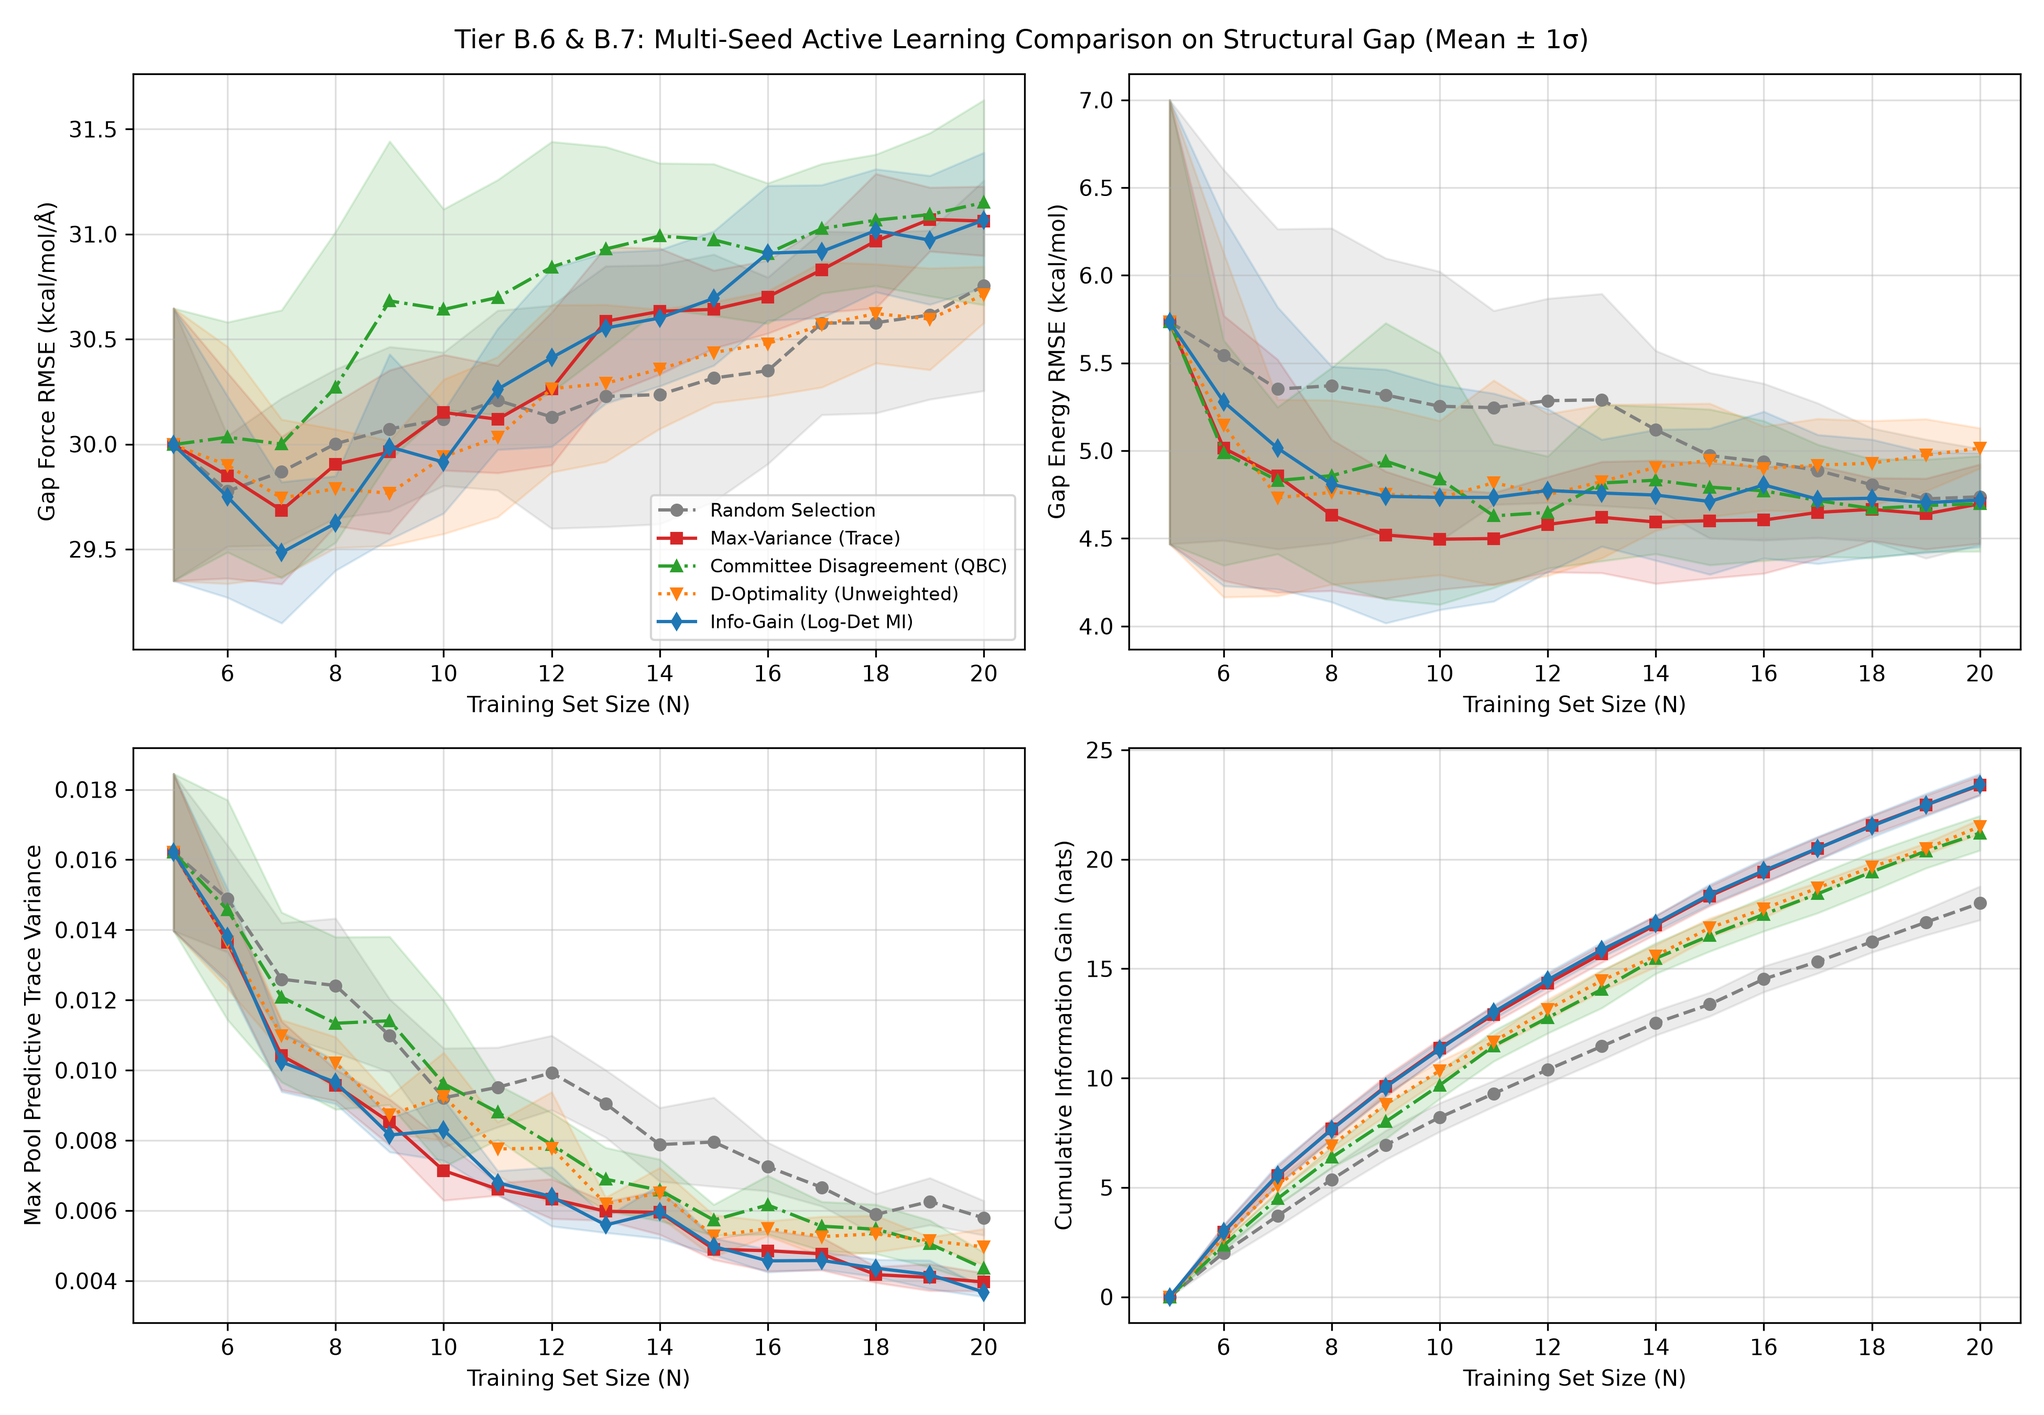
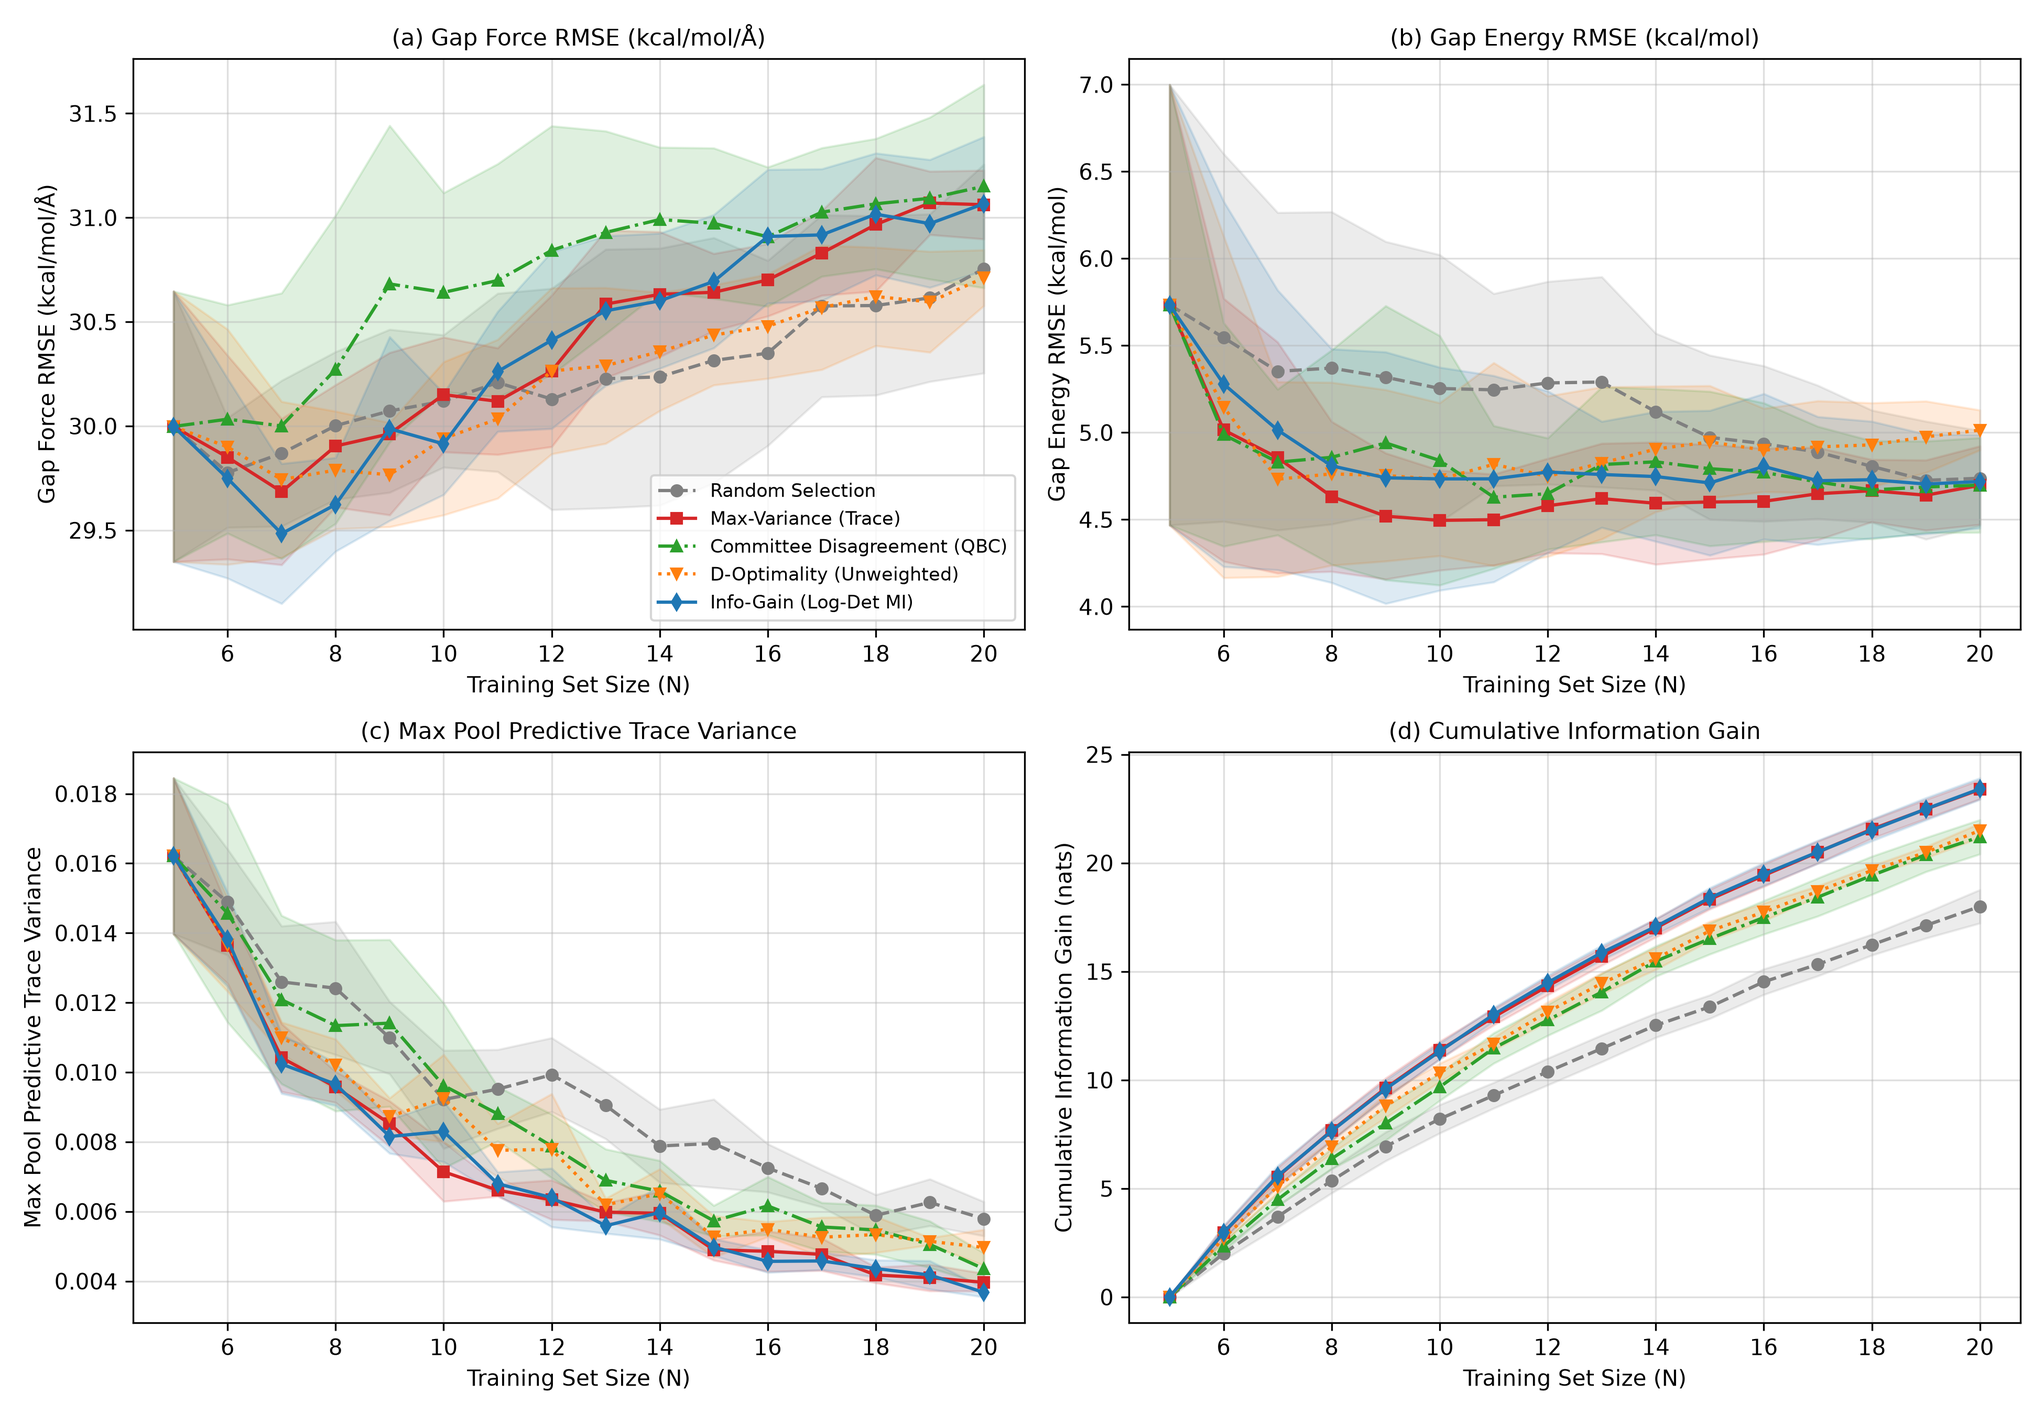
Enhance figure titles and add new script for re-rendering manuscript figures

diff --git a/experiments/scripts/replot_clean_figures.py b/experiments/scripts/replot_clean_figures.py
@@ -1,0 +1,201 @@
+"""Re-render manuscript figures 4–7 from saved benchmark results."""
+
+import json
+from pathlib import Path
+
+import matplotlib.pyplot as plt
+import numpy as np
+
+
+ROOT = Path(__file__).resolve().parents[2]
+RESULTS = ROOT / "experiments" / "results"
+FIGURES = ROOT / "figures"
+FIGURES.mkdir(exist_ok=True)
+
+
+def load_result(name):
+    with (RESULTS / name).open(encoding="utf-8") as result_file:
+        return json.load(result_file)
+
+
+def plot_b6():
+    results = load_result("tier_b6_b7_multiseed.json")
+    n_init, n_steps = 5, 16
+    steps = np.arange(n_init, n_init + n_steps)
+    styles = {
+        "random": ("gray", "o", "--", "Random Selection"),
+        "max_variance": ("C3", "s", "-", "Max-Variance (Trace)"),
+        "qbc": ("C2", "^", "-.", "Committee Disagreement (QBC)"),
+        "d_optimality": ("C1", "v", ":", "D-Optimality (Unweighted)"),
+        "info_gain": ("C0", "d", "-", "Info-Gain (Log-Det MI)"),
+    }
+    metrics = [
+        ("force_rmse", "Gap Force RMSE (kcal/mol/Å)", "Gap Force RMSE (kcal/mol/Å)"),
+        ("energy_rmse", "Gap Energy RMSE (kcal/mol)", "Gap Energy RMSE (kcal/mol)"),
+        ("max_pred_var", "Max Pool Predictive Trace Variance", "Max Pool Predictive Trace Variance"),
+        ("cum_info_gain", "Cumulative Information Gain", "Cumulative Information Gain (nats)"),
+    ]
+    fig, axes = plt.subplots(2, 2, figsize=(13, 9))
+    for (key, title, ylabel), ax in zip(metrics, axes.flat):
+        for strategy, (color, marker, linestyle, label) in styles.items():
+            runs = results.get(strategy, [])
+            if not runs:
+                continue
+            values = np.asarray([run[key] for run in runs])
+            mean, std = values.mean(axis=0), values.std(axis=0)
+            ax.plot(steps, mean, marker=marker, linestyle=linestyle, color=color,
+                    label=label, markersize=5)
+            ax.fill_between(steps, mean - std, mean + std, color=color, alpha=0.15)
+        ax.set_title(f"{['(a)', '(b)', '(c)', '(d)'][list(axes.flat).index(ax)]} {title}", fontsize=10.5)
+        ax.set_xlabel("Training Set Size (N)")
+        ax.set_ylabel(ylabel)
+        ax.grid(True, alpha=0.4)
+        if key == "force_rmse":
+            ax.legend(fontsize=8.5)
+    fig.tight_layout()
+    fig.savefig(FIGURES / "tier_b6_b7_learning_curves.png", dpi=300)
+    plt.close(fig)
+
+
+def plot_b8():
+    results = load_result("tier_b8_batch_results.json")
+    batch_sizes = [1, 5, 10, 25]
+    colors = {1: "C0", 5: "C2", 10: "C1", 25: "C3"}
+    markers = {1: "d", 5: "s", 10: "^", 25: "o"}
+    fig, axes = plt.subplots(1, 3, figsize=(15, 4.5))
+    for batch in batch_sizes:
+        runs = results[str(batch)]
+        n_vals = runs[0]["N_history"]
+        values = np.asarray([run["force_rmse"] for run in runs])
+        mean, std = values.mean(axis=0), values.std(axis=0)
+        axes[0].plot(n_vals, mean, marker=markers[batch], color=colors[batch],
+                     label=f"Batch B = {batch}")
+        axes[0].fill_between(n_vals, mean - std, mean + std, color=colors[batch], alpha=0.15)
+    axes[0].set(xlabel="Training Set Size (N)", ylabel="Gap Force RMSE (kcal/mol/Å)",
+                title="(a) Accuracy vs. Query Budget")
+    axes[0].grid(True, alpha=0.4)
+    axes[0].legend()
+    mean_times = [np.mean([r["wall_time_sec"] for r in results[str(b)]]) for b in batch_sizes]
+    std_times = [np.std([r["wall_time_sec"] for r in results[str(b)]]) for b in batch_sizes]
+    axes[1].bar([f"B={b}" for b in batch_sizes], mean_times, yerr=std_times, capsize=4,
+                color=[colors[b] for b in batch_sizes], alpha=0.85)
+    axes[1].set(ylabel="Total Wall-Clock Time (s)", title="(b) Retraining & Acquisition Runtime")
+    axes[1].grid(True, axis="y", alpha=0.4)
+    multi_batch = [b for b in batch_sizes if b > 1]
+    mean_div = [np.mean([r["mean_batch_diversity"] for r in results[str(b)]]) for b in multi_batch]
+    std_div = [np.std([r["mean_batch_diversity"] for r in results[str(b)]]) for b in multi_batch]
+    axes[2].bar([f"B={b}" for b in multi_batch], mean_div, yerr=std_div, capsize=4,
+                color=[colors[b] for b in multi_batch], alpha=0.85)
+    axes[2].set(ylabel="Mean Pairwise SOAP Distance", title="(c) Intra-Batch Structural Diversity")
+    axes[2].grid(True, axis="y", alpha=0.4)
+    fig.tight_layout()
+    fig.savefig(FIGURES / "tier_b8_batch_analysis.png", dpi=300)
+    plt.close(fig)
+
+
+def plot_b9():
+    results = load_result("tier_b9_d15_validation.json")
+    predicted = results["predicted_ig"]
+    realized = results["realized_pool_mi_drop"]
+    gamma = results["cum_gamma_T"]
+    steps = np.arange(1, len(predicted) + 1)
+    fig, axes = plt.subplots(1, 3, figsize=(15, 4.5))
+    axes[0].scatter(predicted, realized, c=steps, cmap="viridis", edgecolor="k", s=55)
+    slope, intercept = np.polyfit(predicted, realized, 1)
+    x_line = np.linspace(min(predicted), max(predicted), 50)
+    axes[0].plot(x_line, slope*x_line + intercept, "r--", linewidth=1.5,
+                 label=f"Linear Fit (r = {results['pearson_r_mi']:.2f})")
+    axes[0].set(xlabel=r"Predicted Acquisition Score $I(\mathbf{y}_*; f \mid \mathcal{D}_t)$ [nats]",
+                ylabel="Realized Global Pool Entropy Reduction [nats]",
+                title="(a) Acquisition Score Validation")
+    axes[0].grid(True, alpha=0.4)
+    axes[0].legend()
+    axes[1].plot(steps, gamma, "d-", color="C0", label=r"Empirical $\gamma_T$ (Log-Det MI)")
+    envelope = gamma[-1] / np.log(1 + len(steps)) * np.log(1 + steps)
+    axes[1].plot(steps, envelope, "k--", label=r"Sublinear Envelope $\mathcal{O}(d_{\mathrm{eff}} \log T)$")
+    axes[1].set(xlabel="Active Learning Step (T)",
+                ylabel=r"Cumulative Information Gain $\gamma_T$ [nats]",
+                title="(b) Sublinear Information Gain Growth")
+    axes[1].grid(True, alpha=0.4)
+    axes[1].legend()
+    axes[2].plot(steps, results["max_var_T"], "s-", color="C3", label="Max Pool Trace Variance")
+    axes[2].plot(steps, results["p95_var_T"], "^--", color="C1", label="95th Percentile Variance")
+    axes[2].plot(steps, results["mean_var_T"], "o-", color="C2", label="Mean Pool Variance")
+    theory = results["mean_var_T"][0] * (np.asarray(gamma) / steps) / gamma[0]
+    axes[2].plot(steps, theory, "k:", linewidth=1.8,
+                 label=r"Theoretical Envelope $\mathcal{O}(\gamma_T / T)$")
+    axes[2].set(xlabel="Active Learning Step (T)", ylabel="Posterior Predictive Trace Variance",
+                title="(c) Posterior Variance Decay")
+    axes[2].grid(True, alpha=0.4)
+    axes[2].legend(fontsize=8)
+    fig.tight_layout()
+    fig.savefig(FIGURES / "tier_b9_d15_d16_validation.png", dpi=300)
+    plt.close(fig)
+
+
+def plot_c14():
+    results = load_result("tier_c14_robustness.json")
+    steps = np.arange(5, 21)
+    panels = [
+        ("ethanol_random", "(a) Ethanol: Random Split (Interpolation)"),
+        ("ethanol_contiguous", "(b) Ethanol: Contiguous Trajectory Split"),
+        ("ethanol_structural", "(c) Ethanol: Structural C–O Gap Split"),
+        ("malonaldehyde_structural", "(d) Malonaldehyde: Structural O–H Gap Split"),
+    ]
+    styles = {
+        "random": ("gray", "o", "--", "Random Sampling"),
+        "max_variance": ("C3", "s", "-", "Max-Variance (Trace)"),
+        "info_gain": ("C0", "d", "-", "Info-Gain (Log-Det MI)"),
+    }
+    fig, axes = plt.subplots(2, 2, figsize=(13, 9))
+    for (key, title), ax in zip(panels, axes.flat):
+        for strategy, (color, marker, linestyle, label) in styles.items():
+            values = np.asarray([run["force_rmse"] for run in results[key][strategy]])
+            mean, std = values.mean(axis=0), values.std(axis=0)
+            ax.plot(steps, mean, marker=marker, linestyle=linestyle, color=color,
+                    label=label, markersize=4.5)
+            ax.fill_between(steps, mean - std, mean + std, color=color, alpha=0.15)
+        ax.set_title(title)
+        ax.set_xlabel("Training Set Size (N)")
+        ax.set_ylabel("Force RMSE (kcal/mol/Å)")
+        ax.grid(True, alpha=0.4)
+        if key == "ethanol_random":
+            ax.legend(fontsize=8.5)
+    fig.tight_layout()
+    fig.savefig(FIGURES / "tier_c14_multi_split_and_molecule.png", dpi=300)
+    plt.close(fig)
+
+
+def plot_c13():
+    results = load_result("tier_c12_c13_results.json")["tier_c13_scaling"]
+    n_vals = [record["N"] for record in results]
+    t_soap = [record["t_soap_sec"] for record in results]
+    t_build = [record["t_build_K_sec"] for record in results]
+    t_cholesky = [record["t_cholesky_sec"] for record in results]
+    t_acq60 = [record["t_acq1_sec"] * 60 for record in results]
+    memory = [record["peak_memory_mb"] for record in results]
+    fig, axes = plt.subplots(1, 2, figsize=(12, 4.5))
+    axes[0].plot(n_vals, t_soap, "o-", label="SOAP + Jacobian Extraction")
+    axes[0].plot(n_vals, t_build, "s-", label="Covariance Matrix Assembly O(N²)")
+    axes[0].plot(n_vals, t_acq60, "d-", label="60-Candidate MI Scoring")
+    axes[0].plot(n_vals, t_cholesky, "^--", label="Cholesky Factorization O(N³)")
+    axes[0].set(xlabel="Number of Training Configurations (N)",
+                ylabel="Wall-Clock Runtime (seconds)", title="(a) Component Runtime Scaling")
+    axes[0].grid(True, alpha=0.4)
+    axes[0].legend(fontsize=8.5)
+    axes[1].plot(n_vals, memory, "s-", color="C3", linewidth=2)
+    axes[1].set(xlabel="Number of Training Configurations (N)",
+                ylabel="Peak Traced Memory (MB)", title="(b) Peak Memory Footprint")
+    axes[1].grid(True, alpha=0.4)
+    fig.tight_layout()
+    fig.savefig(FIGURES / "tier_c13_computational_scaling.png", dpi=300)
+    plt.close(fig)
+
+
+if __name__ == "__main__":
+    plot_b6()
+    plot_b8()
+    plot_b9()
+    plot_c14()
+    plot_c13()
+    print("Regenerated clean figures 4–7 and Tier C.13 from saved JSON results.")

diff --git a/experiments/scripts/tier_b8_batch_experiment.py b/experiments/scripts/tier_b8_batch_experiment.py
@@ -165,7 +165,7 @@ def plot_batch_results(results, batch_sizes):
         ax.fill_between(N_vals, mean_f - std_f, mean_f + std_f, color=colors[B], alpha=0.15)
     ax.set_xlabel("Training Set Size (N)")
     ax.set_ylabel("Gap Force RMSE (kcal/mol/Å)")
-    ax.set_title("Accuracy vs. Query Budget")
+    ax.set_title("(a) Accuracy vs. Query Budget")
     ax.grid(True, alpha=0.4)
     ax.legend()
 
@@ -175,7 +175,7 @@ def plot_batch_results(results, batch_sizes):
     std_times = [np.std([r["wall_time_sec"] for r in results[str(B)]]) for B in batch_sizes]
     ax.bar([f"B={B}" for B in batch_sizes], mean_times, yerr=std_times, capsize=4, color=[colors[B] for B in batch_sizes], alpha=0.85)
     ax.set_ylabel("Total Wall-Clock Time (s)")
-    ax.set_title("Retraining & Acquisition Runtime")
+    ax.set_title("(b) Retraining & Acquisition Runtime")
     ax.grid(True, axis="y", alpha=0.4)
 
     # Panel 3: Intra-batch diversity (for B > 1)
@@ -185,10 +185,9 @@ def plot_batch_results(results, batch_sizes):
     std_div = [np.std([r["mean_batch_diversity"] for r in results[str(B)]]) for B in multi_B]
     ax.bar([f"B={B}" for B in multi_B], mean_div, yerr=std_div, capsize=4, color=[colors[B] for B in multi_B], alpha=0.85)
     ax.set_ylabel("Mean Pairwise SOAP Distance")
-    ax.set_title("Intra-Batch Structural Diversity")
+    ax.set_title("(c) Intra-Batch Structural Diversity")
     ax.grid(True, axis="y", alpha=0.4)
 
-    plt.suptitle("Tier B.8: Greedy Submodular Batch Active Learning Analysis (3 Seeds)", fontsize=12)
     plt.tight_layout()
     plt.savefig("figures/tier_b8_batch_analysis.png", dpi=300)
     print("\nSaved batch analysis plot to figures/tier_b8_batch_analysis.png")

diff --git a/experiments/scripts/tier_c14_robustness_and_malonaldehyde.py b/experiments/scripts/tier_c14_robustness_and_malonaldehyde.py
@@ -184,10 +184,10 @@ def plot_c14_summary(all_results, n_init=5, n_steps=16):
     steps = np.arange(n_init, n_init + n_steps)
     fig, axes = plt.subplots(2, 2, figsize=(13, 9))
     panels = [
-        ("ethanol_random", "Ethanol: Random Split (Interpolation)", axes[0, 0]),
-        ("ethanol_contiguous", "Ethanol: Contiguous Trajectory Split", axes[0, 1]),
-        ("ethanol_structural", "Ethanol: Structural C-O Gap Split", axes[1, 0]),
-        ("malonaldehyde_structural", "Malonaldehyde: Structural O-H Gap Split", axes[1, 1]),
+        ("ethanol_random", "(a) Ethanol: Random Split (Interpolation)", axes[0, 0]),
+        ("ethanol_contiguous", "(b) Ethanol: Contiguous Trajectory Split", axes[0, 1]),
+        ("ethanol_structural", "(c) Ethanol: Structural C-O Gap Split", axes[1, 0]),
+        ("malonaldehyde_structural", "(d) Malonaldehyde: Structural O-H Gap Split", axes[1, 1]),
     ]
     styles = {
         "random": ("gray", "o", "--", "Random Sampling"),
@@ -210,7 +210,6 @@ def plot_c14_summary(all_results, n_init=5, n_steps=16):
         if key == "ethanol_random":
             ax.legend(fontsize=8.5)
 
-    plt.suptitle("Tier C.14: Multi-Split & Cross-Molecule Robustness (Mean ± 1σ)", fontsize=12)
     plt.tight_layout()
     plt.savefig("figures/tier_c14_multi_split_and_molecule.png", dpi=300)
     print("\nSaved Tier C.14 robustness plot to figures/tier_c14_multi_split_and_molecule.png")

diff --git a/experiments/scripts/tier_b6_acquisition_benchmark.py b/experiments/scripts/tier_b6_acquisition_benchmark.py
@@ -188,7 +188,8 @@ def plot_tier_b7_curves(results, n_init, n_steps):
         ("cum_info_gain", "Cumulative Information Gain (nats)", axes[1, 1]),
     ]
 
-    for metric_key, ylabel, ax in metrics_info:
+    panel_tags = ["(a)", "(b)", "(c)", "(d)"]
+    for (metric_key, ylabel, ax), tag in zip(metrics_info, panel_tags):
         for strat, (color, marker, ls, label) in style_map.items():
             runs = results.get(strat, [])
             if not runs:
@@ -200,13 +201,13 @@ def plot_tier_b7_curves(results, n_init, n_steps):
             ax.plot(steps, mean_curve, marker=marker, linestyle=ls, color=color, label=label, markersize=5)
             ax.fill_between(steps, mean_curve - std_curve, mean_curve + std_curve, color=color, alpha=0.15)
 
+        ax.set_title(f"{tag} {ylabel.split(' (')[0]}", fontsize=10.5)
         ax.set_xlabel("Training Set Size (N)")
         ax.set_ylabel(ylabel)
         ax.grid(True, alpha=0.4)
         if metric_key == "force_rmse":
             ax.legend(fontsize=8.5)
 
-    plt.suptitle("Tier B.6 & B.7: Multi-Seed Active Learning Comparison on Structural Gap (Mean ± 1σ)", fontsize=12)
     plt.tight_layout()
     plt.savefig("figures/tier_b6_b7_learning_curves.png", dpi=300)
     print("\nSaved 4-panel learning curves to figures/tier_b6_b7_learning_curves.png")

diff --git a/experiments/scripts/tier_b9_d15_info_gain_validation.py b/experiments/scripts/tier_b9_d15_info_gain_validation.py
@@ -267,7 +267,7 @@ def main():
     ax.plot(x_line, m * x_line + b, "r--", linewidth=1.5, label=f"Linear Fit (r = {r_mi:.2f})")
     ax.set_xlabel("Predicted Acquisition Score I(y_x; f | D_t) [nats]")
     ax.set_ylabel("Realized Global Pool Entropy Reduction [nats]")
-    ax.set_title("Tier B.9: Acquisition Score Validation")
+    ax.set_title("(a) Acquisition Score Validation")
     ax.grid(True, alpha=0.4)
     ax.legend()
 
@@ -279,7 +279,7 @@ def main():
     ax.plot(T_vals, log_env, "k--", label="Sublinear Envelope O(d_eff log T)")
     ax.set_xlabel("Active Learning Step (T)")
     ax.set_ylabel("Cumulative Information Gain γ_T [nats]")
-    ax.set_title("Tier D.15: Sublinear Information Gain Growth")
+    ax.set_title("(b) Sublinear Information Gain Growth")
     ax.grid(True, alpha=0.4)
     ax.legend()
 
@@ -292,7 +292,7 @@ def main():
     ax.plot(T_vals, theory_rate, "k:", linewidth=1.8, label="Theoretical Envelope O(γ_T / T)")
     ax.set_xlabel("Active Learning Step (T)")
     ax.set_ylabel("Posterior Predictive Trace Variance")
-    ax.set_title("Tier D.16: Posterior Variance Decay")
+    ax.set_title("(c) Posterior Variance Decay")
     ax.grid(True, alpha=0.4)
     ax.legend(fontsize=8)
 

diff --git a/experiments/scripts/tier_c12_c13_ablation_and_scaling.py b/experiments/scripts/tier_c12_c13_ablation_and_scaling.py
@@ -288,7 +288,7 @@ def plot_scaling(scaling_records):
     ax.plot(N_vals, t_chol, "^--", label="Cholesky Factorization O(N³)")
     ax.set_xlabel("Number of Training Configurations (N)")
     ax.set_ylabel("Wall-Clock Runtime (seconds)")
-    ax.set_title("Tier C.13: Component Runtime Scaling")
+    ax.set_title("(a) Component Runtime Scaling")
     ax.grid(True, alpha=0.4)
     ax.legend(fontsize=8.5)
 
@@ -296,7 +296,7 @@ def plot_scaling(scaling_records):
     ax.plot(N_vals, mem_mb, "s-", color="C3", linewidth=2)
     ax.set_xlabel("Number of Training Configurations (N)")
     ax.set_ylabel("Peak Traced Memory (MB)")
-    ax.set_title("Tier C.13: Peak Memory Footprint")
+    ax.set_title("(b) Peak Memory Footprint")
     ax.grid(True, alpha=0.4)
 
     plt.tight_layout()
